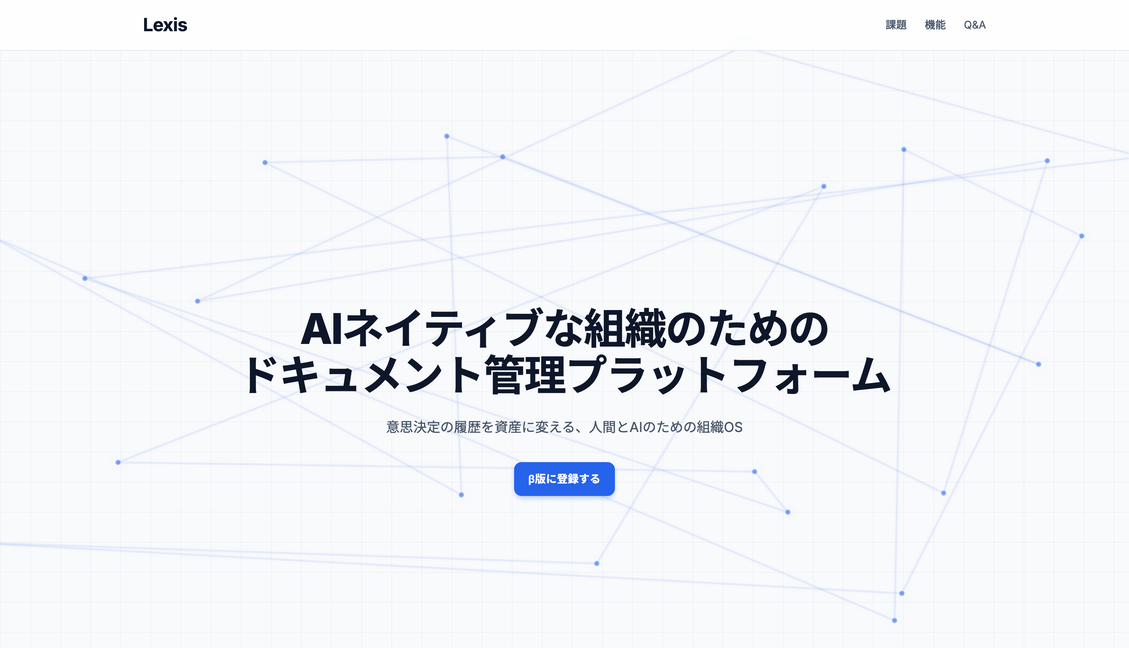
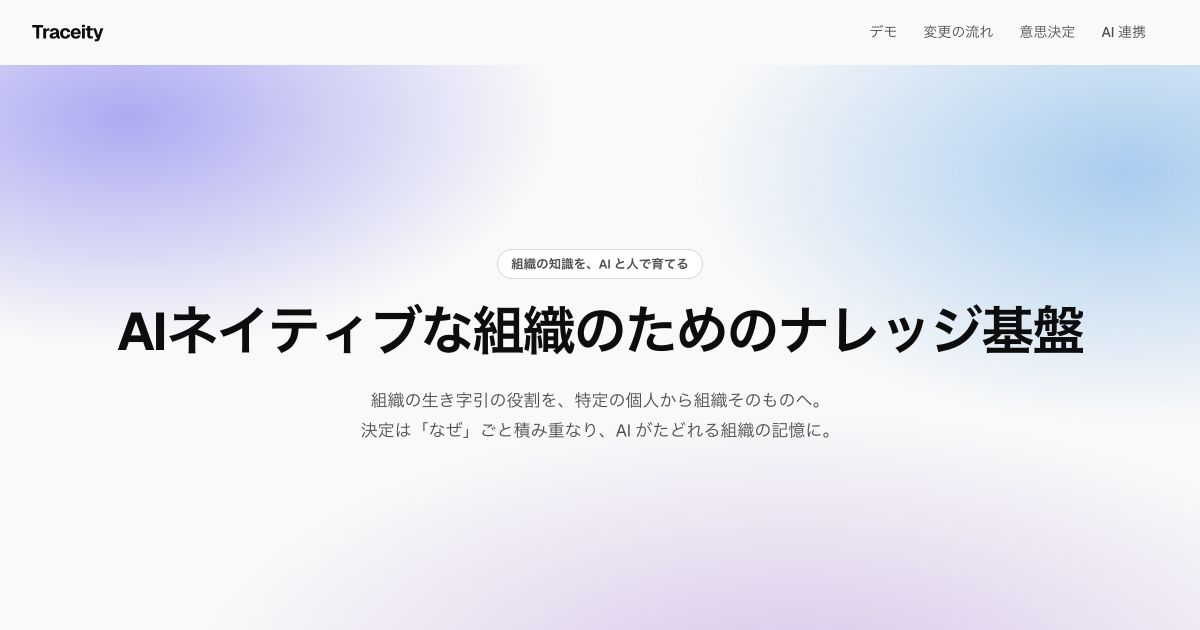
chore: rename LP brand to Traceity

diff --git a/index.html b/index.html
@@ -3,11 +3,11 @@
   <head>
     <meta charset="utf-8" />
     <meta name="viewport" content="width=device-width,initial-scale=1" />
-    <title>Lexis — AIネイティブな組織のためのナレッジ基盤</title>
+    <title>Traceity — AIネイティブな組織のためのナレッジ基盤</title>
     <meta name="description" content="組織の生き字引の役割を、特定の個人から組織そのものへ。決定は「なぜ」ごと積み重なり、AI がたどれる、AIネイティブな組織のためのナレッジ基盤です。" />
     <meta name="twitter:card" content="summary_large_image" />
-    <meta name="twitter:title" content="Lexis — AIネイティブな組織のためのナレッジ基盤" />
-    <meta property="og:title" content="Lexis — AIネイティブな組織のためのナレッジ基盤" />
+    <meta name="twitter:title" content="Traceity — AIネイティブな組織のためのナレッジ基盤" />
+    <meta property="og:title" content="Traceity — AIネイティブな組織のためのナレッジ基盤" />
     <meta property="og:description" content="組織の生き字引の役割を、特定の個人から組織そのものへ。決定は「なぜ」ごと積み重なり、AI がたどれる組織の記憶に。" />
     <meta property="og:image" content="https://lexis-beta.vercel.app/assets/newogp.png" />
     <link rel="stylesheet" href="lp.css" />
@@ -103,7 +103,7 @@
 <!-- ===== NAV ===== -->
 <nav class="nav" id="nav">
   <div class="wrap nav-in">
-    <a class="brand" href="#top">Lexis</a>
+    <a class="brand" href="#top">Traceity</a>
     <div class="nav-right">
       <div class="nav-links">
         <a class="nav-link" href="#demo">デモ</a>
@@ -194,7 +194,7 @@
       <div class="frame ai-connect">
         <div class="ai-tools"><div class="ai-chip"><span class="ai-ic" style="color:#D97757"><svg viewBox="0 0 24 24" fill="currentColor" aria-hidden="true"><path d="m4.7144 15.9555 4.7174-2.6471.079-.2307-.079-.1275h-.2307l-.7893-.0486-2.6956-.0729-2.3375-.0971-2.2646-.1214-.5707-.1215-.5343-.7042.0546-.3522.4797-.3218.686.0608 1.5179.1032 2.2767.1578 1.6514.0972 2.4468.255h.3886l.0546-.1579-.1336-.0971-.1032-.0972L6.973 9.8356l-2.55-1.6879-1.3356-.9714-.7225-.4918-.3643-.4614-.1578-1.0078.6557-.7225.8803.0607.2246.0607.8925.686 1.9064 1.4754 2.4893 1.8336.3643.3035.1457-.1032.0182-.0728-.164-.2733-1.3539-2.4467-1.445-2.4893-.6435-1.032-.17-.6194c-.0607-.255-.1032-.4674-.1032-.7285L6.287.1335 6.6997 0l.9957.1336.419.3642.6192 1.4147 1.0018 2.2282 1.5543 3.0296.4553.8985.2429.8318.091.255h.1579v-.1457l.1275-1.706.2368-2.0947.2307-2.6957.0789-.7589.3764-.9107.7468-.4918.5828.2793.4797.686-.0668.4433-.2853 1.8517-.5586 2.9021-.3643 1.9429h.2125l.2429-.2429.9835-1.3053 1.6514-2.0643.7286-.8196.85-.9046.5464-.4311h1.0321l.759 1.1293-.34 1.1657-1.0625 1.3478-.8804 1.1414-1.2628 1.7-.7893 1.36.0729.1093.1882-.0183 2.8535-.607 1.5421-.2794 1.8396-.3157.8318.3886.091.3946-.3278.8075-1.967.4857-2.3072.4614-3.4364.8136-.0425.0304.0486.0607 1.5482.1457.6618.0364h1.621l3.0175.2247.7892.522.4736.6376-.079.4857-1.2142.6193-1.6393-.3886-3.825-.9107-1.3113-.3279h-.1822v.1093l1.0929 1.0686 2.0035 1.8092 2.5075 2.3314.1275.5768-.3218.4554-.34-.0486-2.2039-1.6575-.85-.7468-1.9246-1.621h-.1275v.17l.4432.6496 2.3436 3.5214.1214 1.0807-.17.3521-.6071.2125-.6679-.1214-1.3721-1.9246L14.38 17.959l-1.1414-1.9428-.1397.079-.674 7.2552-.3156.3703-.7286.2793-.6071-.4614-.3218-.7468.3218-1.4753.3886-1.9246.3157-1.53.2853-1.9004.17-.6314-.0121-.0425-.1397.0182-1.4328 1.9672-2.1796 2.9446-1.7243 1.8456-.4128.164-.7164-.3704.0667-.6618.4008-.5889 2.386-3.0357 1.4389-1.882.929-1.0868-.0062-.1579h-.0546l-6.3385 4.1164-1.1293.1457-.4857-.4554.0608-.7467.2307-.2429 1.9064-1.3114Z"></path></svg></span><span class="ai-nm">Claude</span></div><div class="ai-chip"><span class="ai-ic" style="color:#000000"><svg viewBox="0 0 24 24" fill="currentColor" aria-hidden="true"><path d="M22.2819 9.8211a5.9847 5.9847 0 0 0-.5157-4.9108 6.0462 6.0462 0 0 0-6.5098-2.9A6.0651 6.0651 0 0 0 4.9807 4.1818a5.9847 5.9847 0 0 0-3.9977 2.9 6.0462 6.0462 0 0 0 .7427 7.0966 5.98 5.98 0 0 0 .511 4.9107 6.051 6.051 0 0 0 6.5146 2.9001A5.9847 5.9847 0 0 0 13.2599 24a6.0557 6.0557 0 0 0 5.7718-4.2058 5.9894 5.9894 0 0 0 3.9977-2.9001 6.0557 6.0557 0 0 0-.7475-7.0729zm-9.022 12.6081a4.4755 4.4755 0 0 1-2.8764-1.0408l.1419-.0804 4.7783-2.7582a.7948.7948 0 0 0 .3927-.6813v-6.7369l2.02 1.1686a.071.071 0 0 1 .038.052v5.5826a4.504 4.504 0 0 1-4.4945 4.4944zm-9.6607-4.1254a4.4708 4.4708 0 0 1-.5346-3.0137l.142.0852 4.783 2.7582a.7712.7712 0 0 0 .7806 0l5.8428-3.3685v2.3324a.0804.0804 0 0 1-.0332.0615L9.74 19.9502a4.4992 4.4992 0 0 1-6.1408-1.6464zM2.3408 7.8956a4.485 4.485 0 0 1 2.3655-1.9728V11.6a.7664.7664 0 0 0 .3879.6765l5.8144 3.3543-2.0201 1.1685a.0757.0757 0 0 1-.071 0l-4.8303-2.7865A4.504 4.504 0 0 1 2.3408 7.872zm16.5963 3.8558L13.1038 8.364 15.1192 7.2a.0757.0757 0 0 1 .071 0l4.8303 2.7913a4.4944 4.4944 0 0 1-.6765 8.1042v-5.6772a.79.79 0 0 0-.407-.667zm2.0107-3.0231l-.142-.0852-4.7735-2.7818a.7759.7759 0 0 0-.7854 0L9.409 9.2297V6.8974a.0662.0662 0 0 1 .0284-.0615l4.8303-2.7866a4.4992 4.4992 0 0 1 6.6802 4.66zM8.3065 12.863l-2.02-1.1638a.0804.0804 0 0 1-.038-.0567V6.0742a4.4992 4.4992 0 0 1 7.3757-3.4537l-.142.0805L8.704 5.459a.7948.7948 0 0 0-.3927.6813zm1.0976-2.3654l2.602-1.4998 2.6069 1.4998v2.9994l-2.5974 1.4997-2.6067-1.4997z"></path></svg></span><span class="ai-nm">ChatGPT</span></div><div class="ai-chip"><span class="ai-ic" style="color:#0F0F0F"><svg viewBox="0 0 24 24" fill="currentColor" aria-hidden="true"><path d="M23.922 16.997C23.061 18.492 18.063 22.02 12 22.02 5.937 22.02.939 18.492.078 16.997A.641.641 0 0 1 0 16.741v-2.869a.883.883 0 0 1 .053-.22c.372-.935 1.347-2.292 2.605-2.656.167-.429.414-1.055.644-1.517a10.098 10.098 0 0 1-.052-1.086c0-1.331.282-2.499 1.132-3.368.397-.406.89-.717 1.474-.952C7.255 2.937 9.248 1.98 11.978 1.98c2.731 0 4.767.957 6.166 2.093.584.235 1.077.546 1.474.952.85.869 1.132 2.037 1.132 3.368 0 .368-.014.733-.052 1.086.23.462.477 1.088.644 1.517 1.258.364 2.233 1.721 2.605 2.656a.841.841 0 0 1 .053.22v2.869a.641.641 0 0 1-.078.256Zm-11.75-5.992h-.344a4.359 4.359 0 0 1-.355.508c-.77.947-1.918 1.492-3.508 1.492-1.725 0-2.989-.359-3.782-1.259a2.137 2.137 0 0 1-.085-.104L4 11.746v6.585c1.435.779 4.514 2.179 8 2.179 3.486 0 6.565-1.4 8-2.179v-6.585l-.098-.104s-.033.045-.085.104c-.793.9-2.057 1.259-3.782 1.259-1.59 0-2.738-.545-3.508-1.492a4.359 4.359 0 0 1-.355-.508Zm2.328 3.25c.549 0 1 .451 1 1v2c0 .549-.451 1-1 1-.549 0-1-.451-1-1v-2c0-.549.451-1 1-1Zm-5 0c.549 0 1 .451 1 1v2c0 .549-.451 1-1 1-.549 0-1-.451-1-1v-2c0-.549.451-1 1-1Zm3.313-6.185c.136 1.057.403 1.913.878 2.497.442.544 1.134.938 2.344.938 1.573 0 2.292-.337 2.657-.751.384-.435.558-1.15.558-2.361 0-1.14-.243-1.847-.705-2.319-.477-.488-1.319-.862-2.824-1.025-1.487-.161-2.192.138-2.533.529-.269.307-.437.808-.438 1.578v.021c0 .265.021.562.063.893Zm-1.626 0c.042-.331.063-.628.063-.894v-.02c-.001-.77-.169-1.271-.438-1.578-.341-.391-1.046-.69-2.533-.529-1.505.163-2.347.537-2.824 1.025-.462.472-.705 1.179-.705 2.319 0 1.211.175 1.926.558 2.361.365.414 1.084.751 2.657.751 1.21 0 1.902-.394 2.344-.938.475-.584.742-1.44.878-2.497Z"></path></svg></span><span class="ai-nm">Copilot</span></div><div class="ai-chip"><span class="ai-ic" style="color:#8E75B2"><svg viewBox="0 0 24 24" fill="currentColor" aria-hidden="true"><path d="M11.04 19.32Q12 21.51 12 24q0-2.49.93-4.68.96-2.19 2.58-3.81t3.81-2.55Q21.51 12 24 12q-2.49 0-4.68-.93a12.3 12.3 0 0 1-3.81-2.58 12.3 12.3 0 0 1-2.58-3.81Q12 2.49 12 0q0 2.49-.96 4.68-.93 2.19-2.55 3.81a12.3 12.3 0 0 1-3.81 2.58Q2.49 12 0 12q2.49 0 4.68.96 2.19.93 3.81 2.55t2.55 3.81"></path></svg></span><span class="ai-nm">Gemini</span></div></div>
         <div class="ai-rail"><span class="bus"></span><span class="tk" style="left:12.5%"></span><span class="tk" style="left:37.5%"></span><span class="tk" style="left:62.5%"></span><span class="tk" style="left:87.5%"></span><span class="dot" style="left:12.5%"></span><span class="dot" style="left:37.5%"></span><span class="dot" style="left:62.5%"></span><span class="dot" style="left:87.5%"></span><span class="flowdot fd0"></span><span class="flowdot fd1"></span><span class="flowdot fd2"></span><span class="flowdot fd3"></span><span class="drop"></span><span class="mcp">MCP</span></div>
-        <div class="ai-hub">Lexis</div>
+        <div class="ai-hub">Traceity</div>
         <div class="ai-arrow"><svg viewBox="0 0 24 24" fill="none" stroke="currentColor" stroke-width="2" stroke-linecap="round" stroke-linejoin="round"><line x1="12" y1="5" x2="12" y2="19"></line><polyline points="6 13 12 19 18 13"></polyline></svg></div>
         <div class="ai-know"><span class="ai-know-ic"><svg viewBox="0 0 24 24" fill="none" stroke="currentColor" stroke-width="1.8" stroke-linecap="round" stroke-linejoin="round"><path d="M14 2H6a2 2 0 0 0-2 2v16a2 2 0 0 0 2 2h12a2 2 0 0 0 2-2V8z"></path><polyline points="14 2 14 8 20 8"></polyline></svg></span>組織の知識</div>
       </div>
@@ -223,7 +223,7 @@
     <div class="contact-copy">
       <div class="ey">お問い合わせ・事前登録</div>
       <h2 class="contact-title"><span class="nb">個人の記憶から、</span><span class="nb">組織の資産へ。</span></h2>
-      <p class="contact-lead"><span class="nb">Lexis を組織でどう使えるか、</span><span class="nb">まずはお気軽にご相談ください。</span><span class="nb">担当者より折り返しご連絡します。</span></p>
+      <p class="contact-lead"><span class="nb">Traceity を組織でどう使えるか、</span><span class="nb">まずはお気軽にご相談ください。</span><span class="nb">担当者より折り返しご連絡します。</span></p>
       <ul class="contact-points">
         <li>ドキュメントの作成・レビュー・承認を、一つの流れに</li>
         <li>「いつ・誰が・なぜ決めたか」まで組織に残す</li>
@@ -233,7 +233,7 @@
 
     <form id="contact-form" class="contact-form" action="https://api.staticforms.xyz/submit" method="post">
       <input type="hidden" name="accessKey" value="sf_6nec2n44k0214nmeg93g1fl7" />
-      <input type="hidden" name="subject" value="Lexis お問い合わせ・事前登録" />
+      <input type="hidden" name="subject" value="Traceity お問い合わせ・事前登録" />
       <input type="hidden" name="replyTo" value="@" />
 
       <div class="field-row">
@@ -292,9 +292,9 @@
 
 <footer>
   <div class="wrap foot-in">
-    <a class="brand" href="#top">Lexis</a>
+    <a class="brand" href="#top">Traceity</a>
     <div class="foot-links"><a href="#demo">デモ</a><a href="#flow">変更の流れ</a><a href="#graph">意思決定</a><a href="#ai">AI 連携</a></div>
-    <div class="foot-copy">© 2026 Lexis</div>
+    <div class="foot-copy">© 2026 Traceity</div>
   </div>
 </footer>
     </div>

diff --git a/README.md b/README.md
@@ -1,4 +1,4 @@
-# Lexis - ランディングページ
+# Traceity - ランディングページ
 
 ドキュメントに、Pull Requestという作法を。
 
@@ -27,7 +27,7 @@ docker-compose down
 
 ```bash
 # コンテナを起動
-docker run -d --name lexis-lp-web -p 8081:80 -v "$(pwd)":/usr/share/nginx/html:ro nginx:alpine
+docker run -d --name traceity-lp-web -p 8081:80 -v "$(pwd)":/usr/share/nginx/html:ro nginx:alpine
 
 # または docker-compose を使用
 docker-compose up web -d
@@ -36,10 +36,10 @@ docker-compose up web -d
 open http://localhost:8081
 
 # コンテナを停止
-docker stop lexis-lp-web
+docker stop traceity-lp-web
 
 # コンテナを削除
-docker rm lexis-lp-web
+docker rm traceity-lp-web
 ```
 
 ### ローカルで直接起動する場合（Node.js使用）
@@ -70,7 +70,7 @@ php -S localhost:8081
 ## ファイル構成
 
 ```
-lexis-lp/
+traceity-lp/
 ├── index.html           # メインHTMLファイル
 ├── docker-compose.yml   # Docker Compose設定
 ├── assets/              # 画像などのアセット（要作成）
@@ -84,10 +84,9 @@ lexis-lp/
 
 以下の画像ファイルを `assets/` ディレクトリに配置してください：
 
-- `assets/ui-1.jpg` - Lexisの変更提案（差分・レビュー）画面のスクリーンショット
-- `assets/ui-2.jpg` - Lexisの差分・レビューが見えるUIスクリーンショット
+- `assets/ui-1.jpg` - Traceityの変更提案（差分・レビュー）画面のスクリーンショット
+- `assets/ui-2.jpg` - Traceityの差分・レビューが見えるUIスクリーンショット
 
 ## ライセンス
 
-© 2024 Lexis. All rights reserved.
-
+© 2024 Traceity. All rights reserved.
